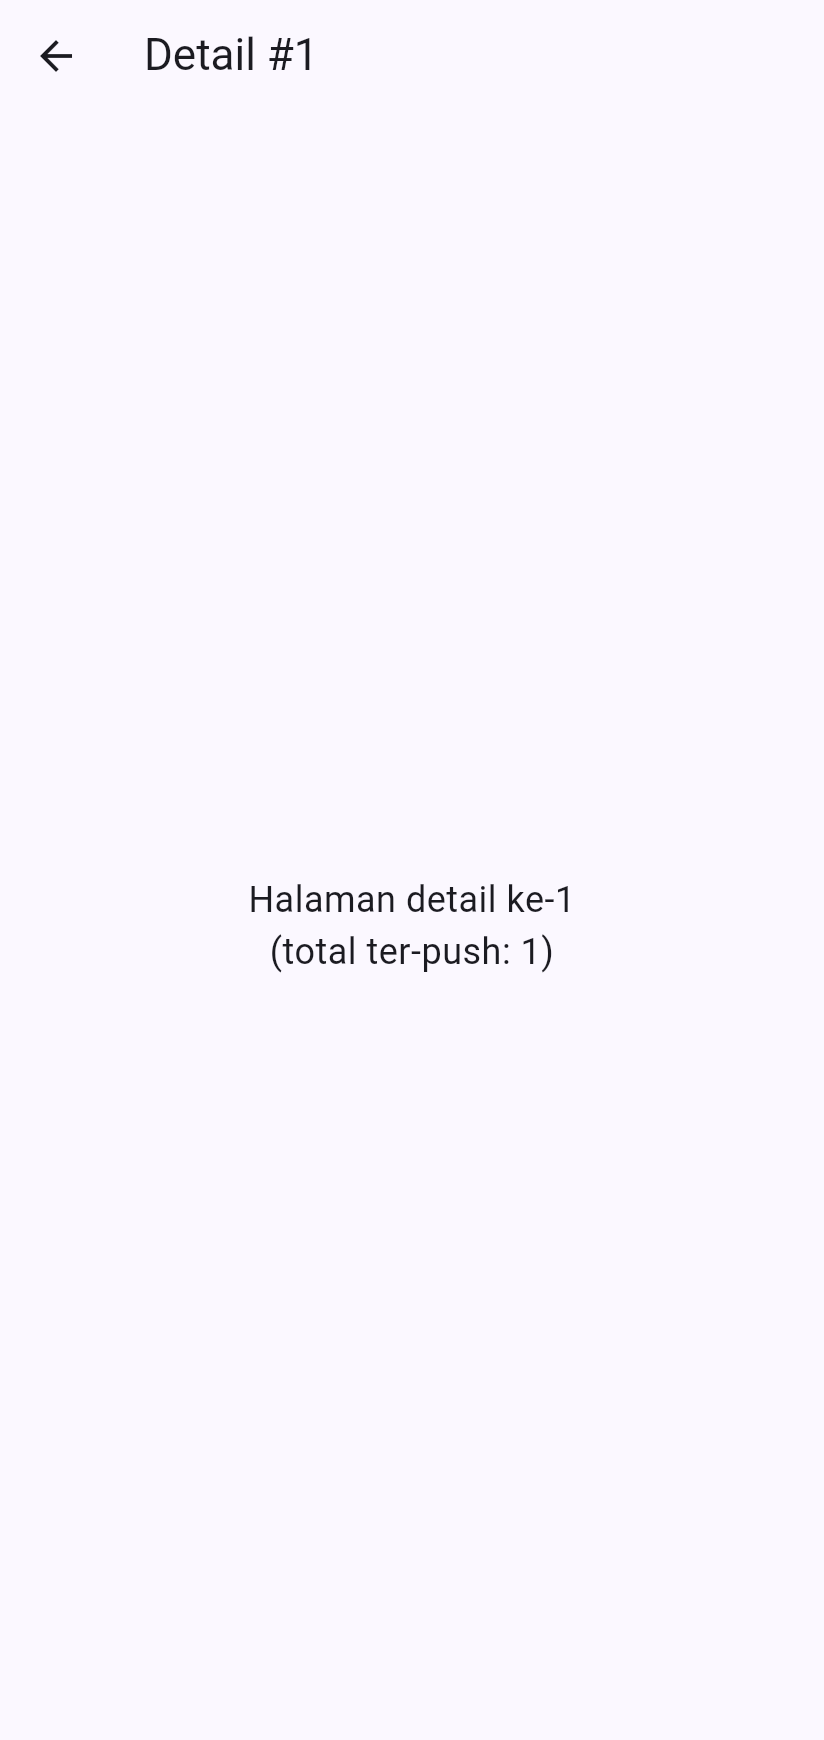
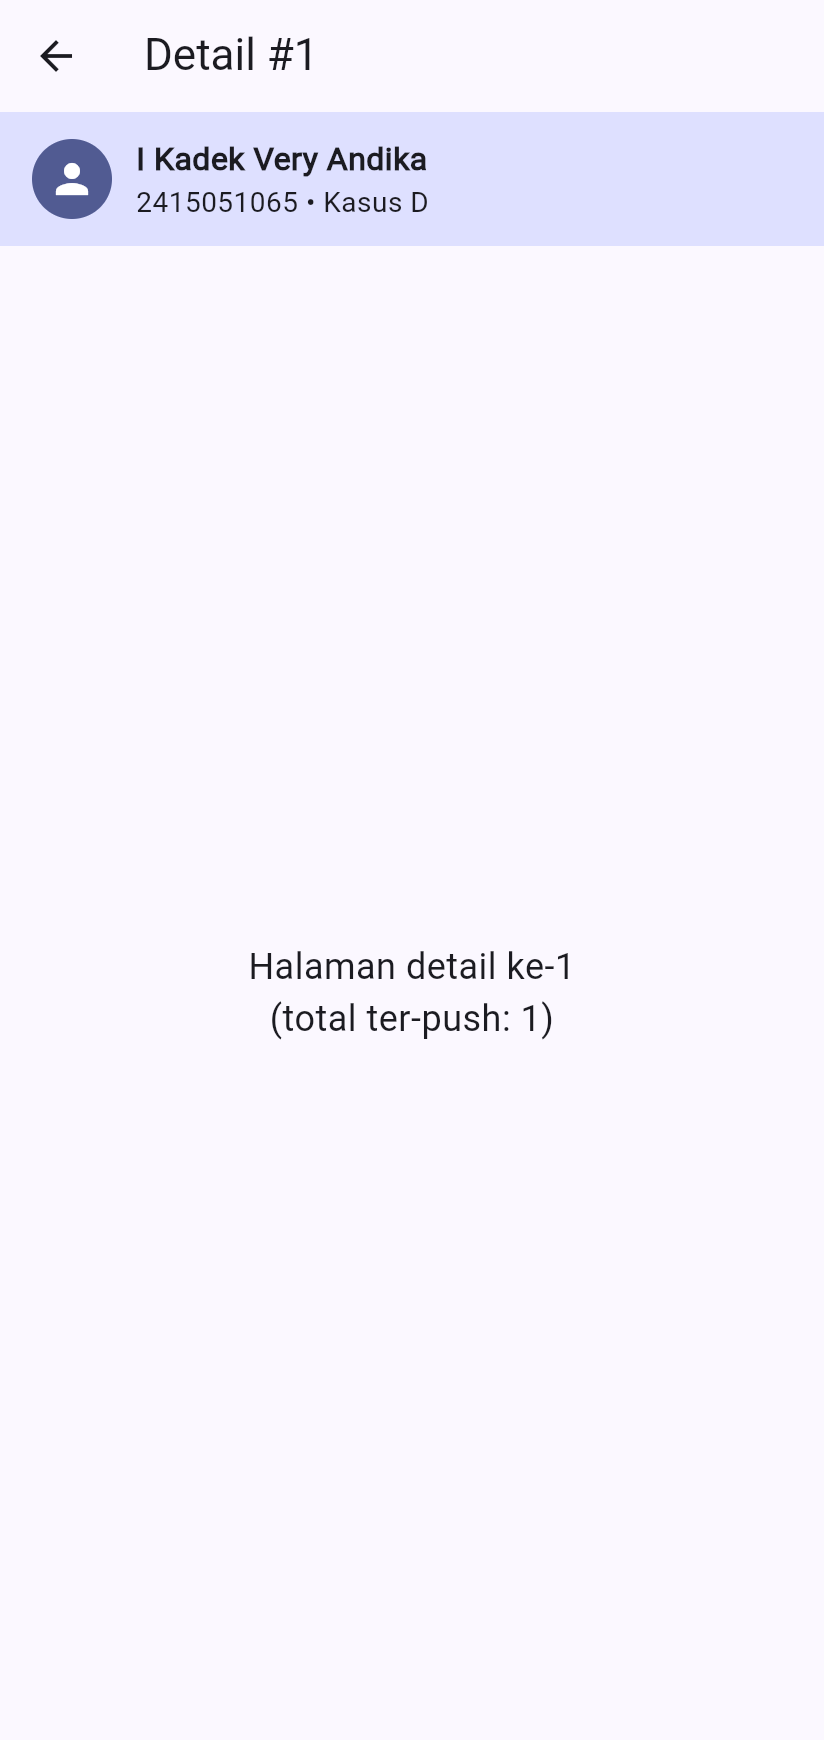
P5 Tahap 16: identitas di halaman Kasus D, bukti sebelum/sesudah Kasus A-D
- halaman detail Kasus D kini menampilkan Nama dan NIM
- screenshot ulang Kasus A-D (sebelum dan sesudah)
- bukti error Kasus B dari console Chrome

Changed region(s): [[0.0, 0.0621, 1.0, 0.1552], [0.3034, 0.4966, 0.6978, 0.5897]]

diff --git a/lib/p5/stages/tahap16_debugging.dart b/lib/p5/stages/tahap16_debugging.dart
@@ -250,12 +250,19 @@ class _OpenedPageState extends State<_OpenedPage> {
   Widget build(BuildContext context) {
     return Scaffold(
       appBar: AppBar(title: Text('Detail #$number')),
-      body: Center(
-        child: Text(
-          'Halaman detail ke-$number\n(total ter-push: $_openedDetail)',
-          textAlign: TextAlign.center,
-          style: const TextStyle(fontSize: 18),
-        ),
+      body: Column(
+        children: [
+          const IdentityHeader(subtitle: 'Kasus D'),
+          Expanded(
+            child: Center(
+              child: Text(
+                'Halaman detail ke-$number\n(total ter-push: $_openedDetail)',
+                textAlign: TextAlign.center,
+                style: const TextStyle(fontSize: 18),
+              ),
+            ),
+          ),
+        ],
       ),
     );
   }

diff --git a/JAWABAN_P5.md b/JAWABAN_P5.md
@@ -60,9 +60,9 @@ yang butuh keputusan pengguna sebelum lanjut (konfirmasi kirim/hapus).
 
 ## Tahap 16
 - **A**: `Text` di `Row` mendapat lebar tak terbatas → overflow. `Expanded` memberi lebar sisa yang terbatas sehingga teks wrap.
-- **B**: `ListView` di `Column` tanpa `Expanded` → *Vertical viewport was given unbounded height* (dibuktikan di `test/widget_test.dart`). `Expanded` memberi tinggi terbatas.
+- **B**: `ListView` di `Column` tanpa `Expanded` → *Vertical viewport was given unbounded height* (terlihat di console Chrome `docs/p5/p16_b_console.png` dan dibuktikan di `test/widget_test.dart`). `Expanded` memberi tinggi terbatas.
 - **C**: form di bawah tanpa scroll → *BOTTOM OVERFLOWED* saat ruang vertikal berkurang; dibungkus `SingleChildScrollView`.
-- **D**: tiga klik cepat mem-push **3** halaman detail. Diperbaiki dengan flag `navigating` sehingga hanya **1** yang terbuka. Di kasus nyata: nonaktifkan tombol selama proses, atau abaikan tap saat navigasi/request sedang berjalan.
+- **D**: tiga klik cepat mem-push lebih dari satu halaman detail (3 pada percobaan pertama, 2 pada pengambilan ulang). Diperbaiki dengan flag `navigating` sehingga hanya **1** yang terbuka. Di kasus nyata: nonaktifkan tombol selama proses, atau abaikan tap saat navigasi/request sedang berjalan.
 
 ## G. Refleksi
 1. **MediaQuery vs LayoutBuilder**: MediaQuery membaca ukuran seluruh layar (dipakai di Tahap 2 dan kartu "Compact 411 dp" di Home); LayoutBuilder membaca constraints dari parent (dipakai di shell, grid course, dan Tahap 3) sehingga cocok untuk widget yang ruangnya lebih kecil dari layar, mis. area di samping NavigationRail.
